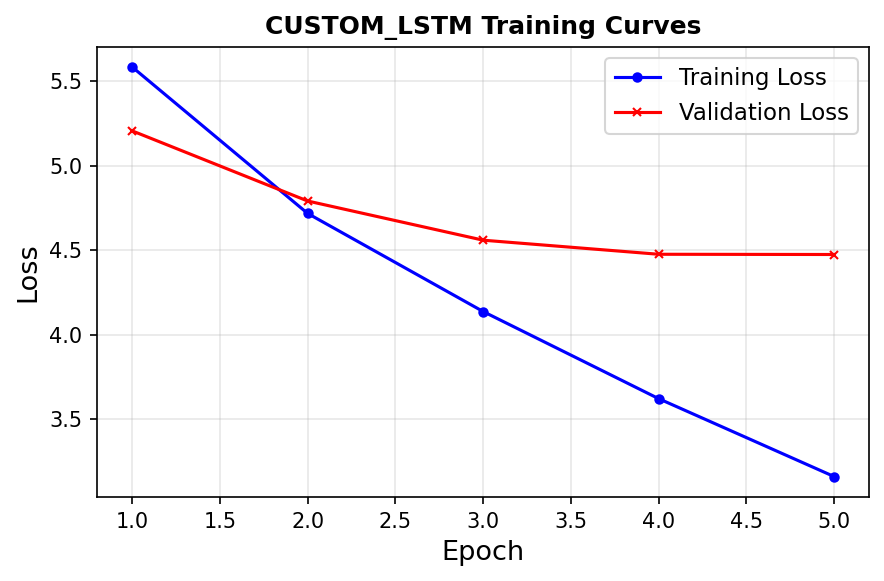
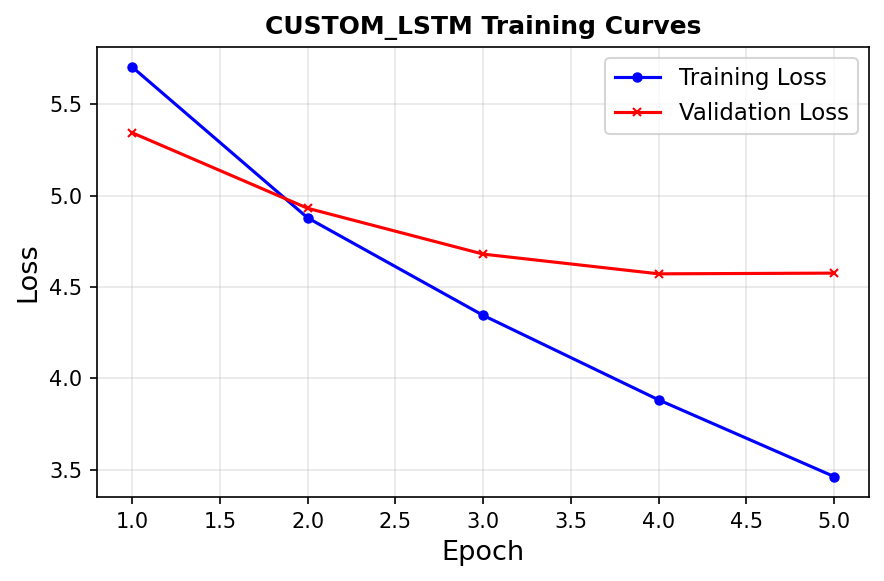
generate new results

diff --git a/HW6/starter_code/train.py b/HW6/starter_code/train.py
@@ -218,8 +218,8 @@ if __name__ == "__main__":
     import sys
     from data_utils import *
     from transformer_model_p3 import Transformer #p3 or p4
-    from baseline_models_p1 import create_rnn_model, create_lstm_model #p1 or p2
-    # from baseline_models_p2 import create_rnn_model, create_lstm_model
+    # from baseline_models_p1 import create_rnn_model, create_lstm_model #p1 or p2
+    from baseline_models_p2 import create_rnn_model, create_lstm_model
     from evaluate import calculate_scores, debug_model_output
     import numpy as np 
     # Set device
